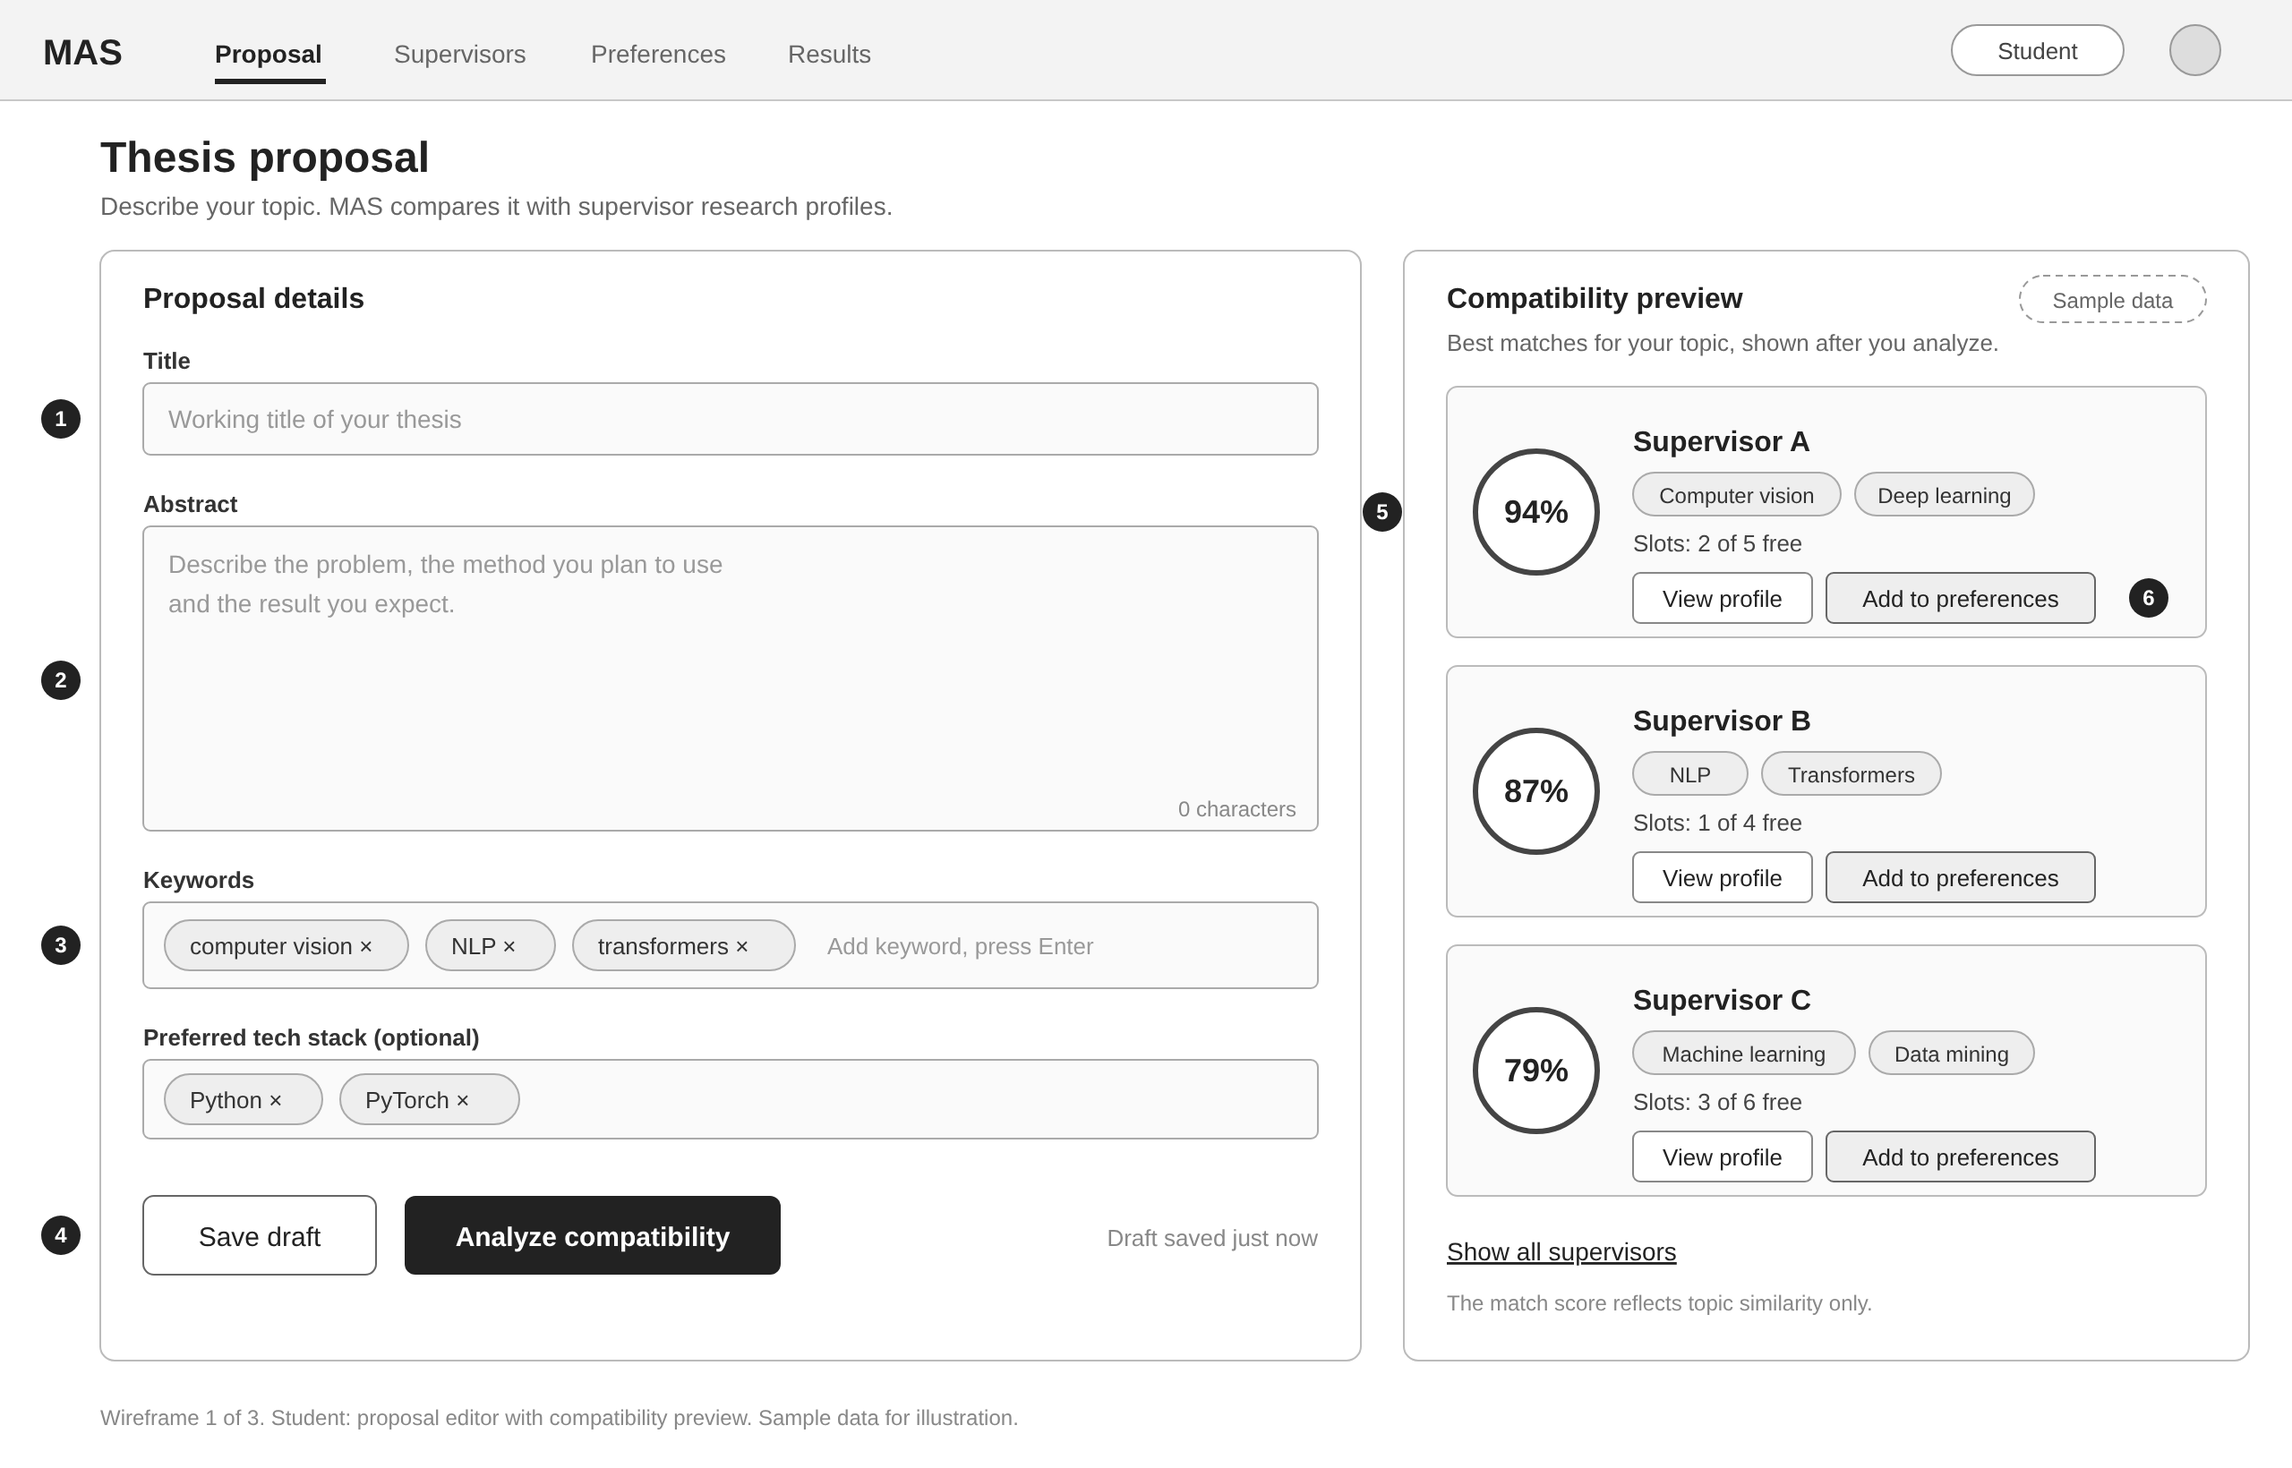
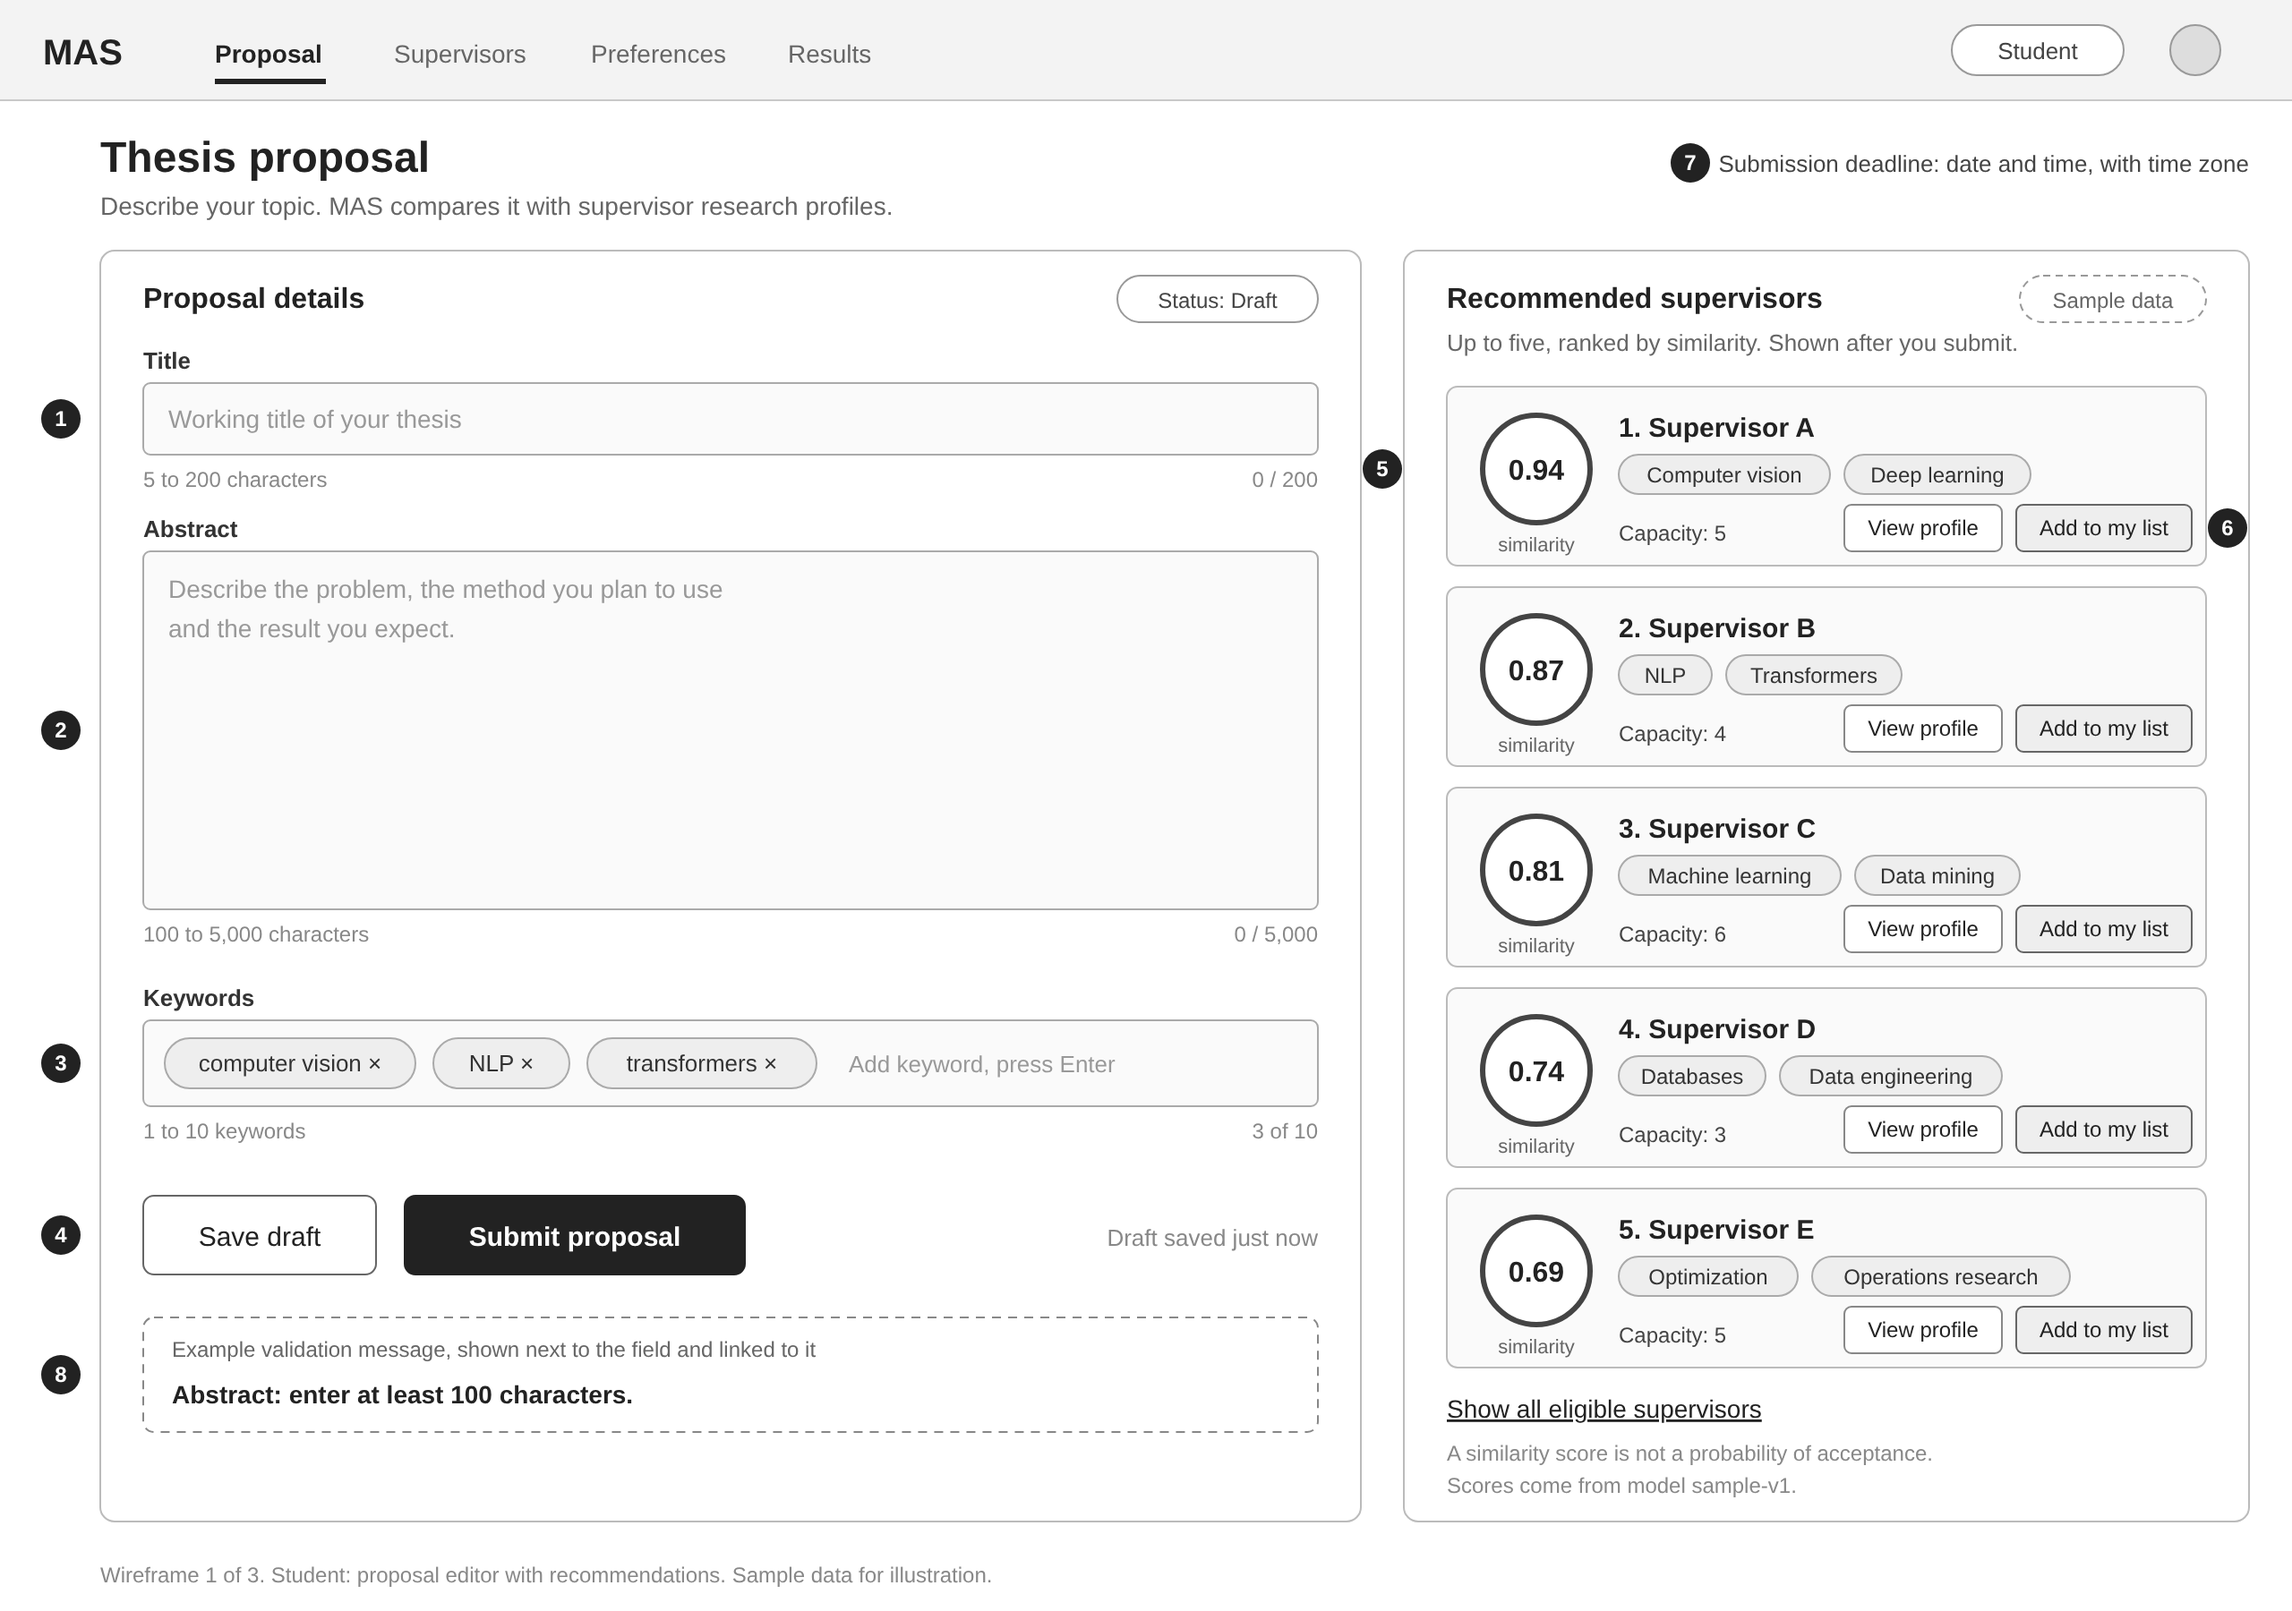
MAS-14: Align the proposal editor wireframe with the requirements
Fields and limits now follow FR-02: title, abstract and keywords with
their length ranges, a separate Submit proposal button and a deadline.
The recommendation panel follows FR-05: up to five supervisors with a
0 to 1 similarity score, approved capacity instead of free slots, and a
note that the score is not a probability of acceptance. The tech stack
field is removed and listed as an open question.

diff --git a/prototypes/README.md b/prototypes/README.md
@@ -2,21 +2,23 @@
 
 Low-fidelity wireframes for the three key screens of MAS: the student proposal editor, the preference builder and the coordinator panel. Each screen has a wireframe and a short specification of its elements, states and the data it needs from the API.
 
+The wireframes follow the requirements in [`docs/06-requirements-spec.md`](../docs/06-requirements-spec.md). Requirement IDs such as FR-05 or AC-F02 refer to that document.
+
 The SVG files are the editable sources. The PNG files are exports at 2x size.
 
 ## Status
 
 | # | Screen | Role | Wireframe | Status |
 |---|---|---|---|---|
-| 1 | Proposal editor with compatibility preview | Student | [SVG](wireframes/01-student-proposal.svg), [PNG](wireframes/01-student-proposal.png) | Done |
-| 2 | Preference builder (ranked list) | Student | | Planned |
-| 3 | Assignment control panel | Coordinator | | Planned |
+| 1 | Proposal editor with recommendations | Student | [SVG](wireframes/01-student-proposal.svg), [PNG](wireframes/01-student-proposal.png) | Done |
+| 2 | Preference builder (ordered list) | Student | | Planned |
+| 3 | Allocation control panel | Coordinator | | Planned |
 
 The interactive Figma prototype and the REST API request and response examples are still to be added.
 
-## Screen 1: proposal editor with compatibility preview
+## Screen 1: proposal editor with recommendations
 
-A student describes the thesis topic on the left. After pressing Analyze compatibility, the right side shows the supervisors whose research profiles are closest to the topic.
+A student writes the thesis proposal on the left. After submitting it, the right side lists up to five supervisors whose research profiles are most similar to the proposal text.
 
 ![Wireframe of the student proposal editor](wireframes/01-student-proposal.png)
 
@@ -24,31 +26,42 @@ A student describes the thesis topic on the left. After pressing Analyze compati
 
 | # | Element | Behavior |
 |---|---|---|
-| 1 | Title | Single-line text field. Required to analyze. |
-| 2 | Abstract | Multi-line text field with a character counter. The text is the main input for the topic similarity. |
-| 3 | Keywords | Tag input. Enter adds a keyword, the cross removes it. A second tag input below it takes the optional preferred tech stack. |
-| 4 | Analyze compatibility | Saves the proposal, sends it for analysis and fills the preview. Save draft stores the proposal without analysis. |
-| 5 | Match score | Percentage of topic similarity between the proposal and the supervisor's research profile. It is shown as a circular badge next to the supervisor's name, research areas and free slots. |
-| 6 | Add to preferences | Adds the supervisor to the student's ranked list, which is edited on screen 2. |
+| 1 | Title | Single-line text field, 5 to 200 characters (FR-02, AC-F02). |
+| 2 | Abstract | Multi-line text field, 100 to 5,000 characters, with a live counter. This text is the main input for the similarity score. |
+| 3 | Keywords | Tag input for 1 to 10 non-empty keywords. Enter adds a keyword, the cross removes it. |
+| 4 | Save draft and Submit proposal | Save draft stores the fields without submitting. Submit proposal checks all fields, then submits the one proposal allowed per cycle. |
+| 5 | Similarity score | A number from 0 to 1 in a circular badge, in descending order down the list (FR-05, AC-F05). The panel carries the line "A similarity score is not a probability of acceptance." and names the model version. |
+| 6 | Add to my list | Adds the supervisor to the student's ordered preference list of one to five supervisors (FR-06). The list is edited on screen 2. |
+| 7 | Deadline | Submission deadline with its time zone, taken from the cycle settings (FR-04). The server clock decides whether the deadline has passed. |
+| 8 | Validation message | Plain text next to the field and linked to it. The last valid proposal stays saved (AC-F02, NFR-04). |
 
-The supervisor names, scores and slot counts in the wireframe are sample data.
+Each recommendation card shows the supervisor's name, research areas and approved capacity. Capacity is the figure the coordinator approved for the cycle (FR-03). Allocation runs as one batch after the deadline, so the screen has no live count of free places.
+
+The supervisor names, scores, capacities and the model name in the wireframe are sample data.
 
 ### States to design
 
-- **Empty:** nothing analyzed yet. The preview shows a short hint instead of cards.
-- **Loading:** the button is disabled and the preview shows placeholders.
-- **Error:** the analysis failed. The proposal stays saved and the student can retry.
-- **Closed:** the submission deadline has passed. The form is read-only.
+- **Draft:** as drawn. The form is editable and the right panel shows a hint to submit the proposal.
+- **Loading:** the submit button is disabled and the panel shows placeholders.
+- **Recommendations:** up to five cards in descending order of score.
+- **Fewer than five eligible supervisors:** all eligible supervisors are shown (AC-F05).
+- **No eligible supervisors:** an explicit message instead of cards.
+- **Service error:** a retryable message. No recommendations are made up and the submitted preferences stay unchanged (AC-F05).
+- **Closed:** the deadline has passed or the inputs are frozen. The form is read-only and shows the last accepted proposal with its submission time (AC-F02).
+
+### Accessibility
+
+Every field has a visible label. Errors appear as text linked to the field, focus stays visible, and a keyboard-only user can complete the form and add supervisors to the list (NFR-04, AC-N04).
 
 ### Data the screen needs
 
-- The student's proposal: title, abstract, keywords, preferred tech stack.
-- For each suggested supervisor: name, research areas, match score, free slots out of the quota.
+- The proposal: title, abstract, keywords, status and submission time.
+- The cycle: deadline with time zone, and whether inputs are frozen.
+- For each recommended supervisor: id, name, research areas, approved capacity, similarity score, rank and the model version.
 
 ### Open questions
 
-These depend on the requirements specification and are settled there:
-
-- the minimum and maximum abstract length;
-- how many suggestions the preview shows;
-- whether a proposal can still be edited after the student has submitted preferences.
+- The project overview lists a preferred tech stack as a proposal field. FR-02 has only title, abstract and keywords, so the wireframe leaves the tech stack out until the requirements decide.
+- FR-05 ties recommendations to a submitted proposal. Whether a student may preview recommendations for a draft needs a decision.
+- It is open whether a student can edit and resubmit after seeing the recommendations, and whether the list then refreshes.
+- The content of the View profile page is not defined yet.
